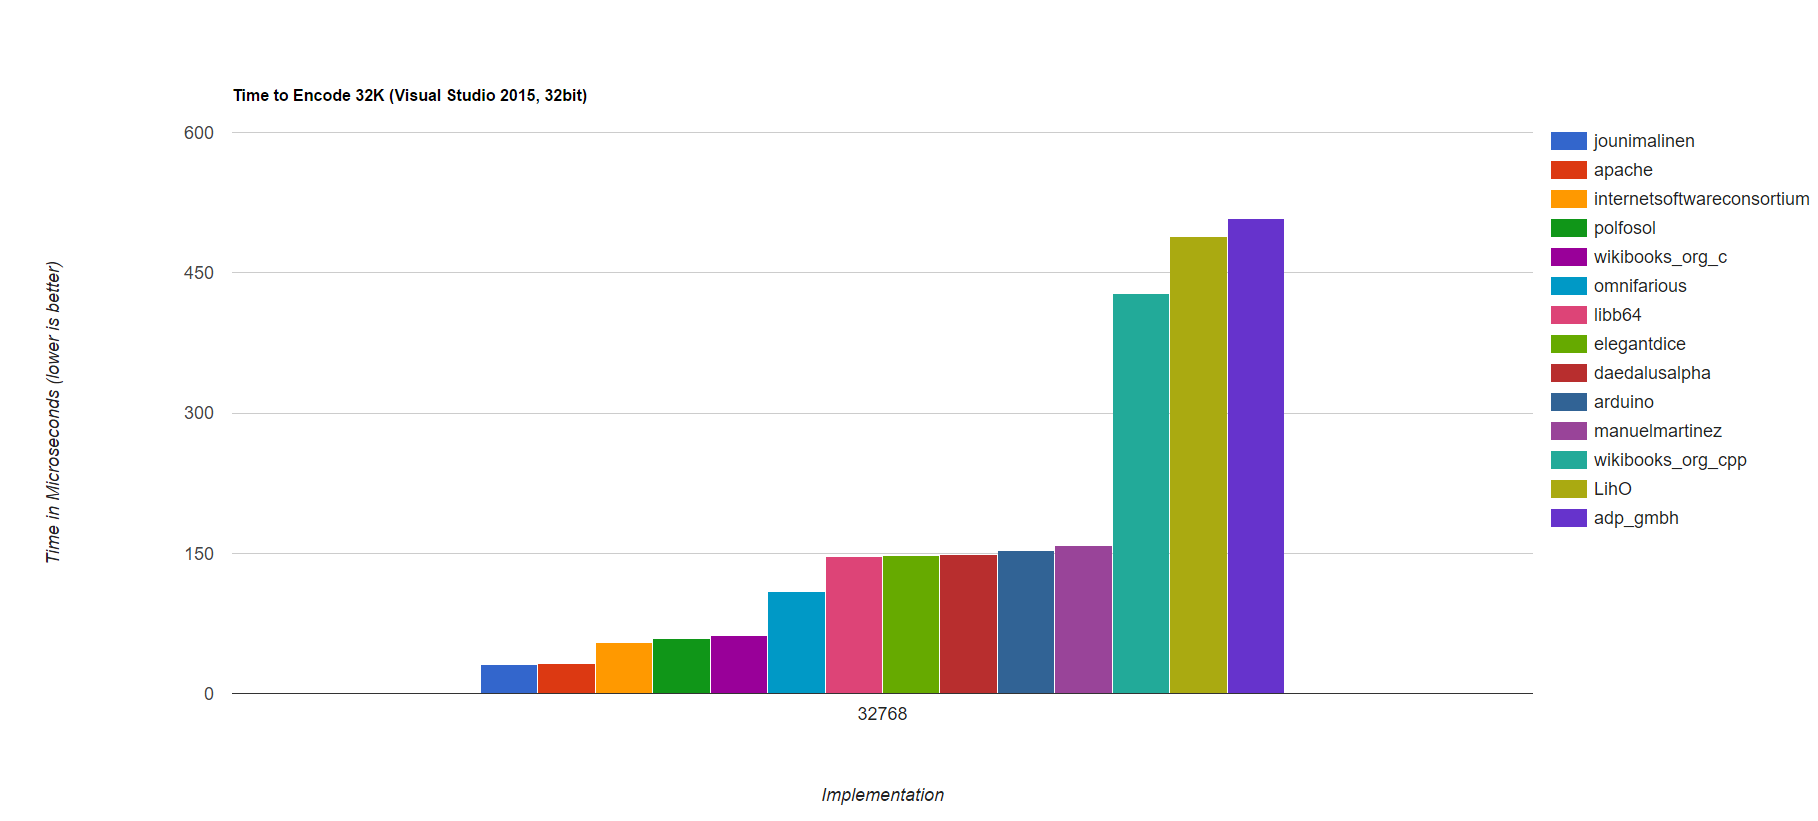
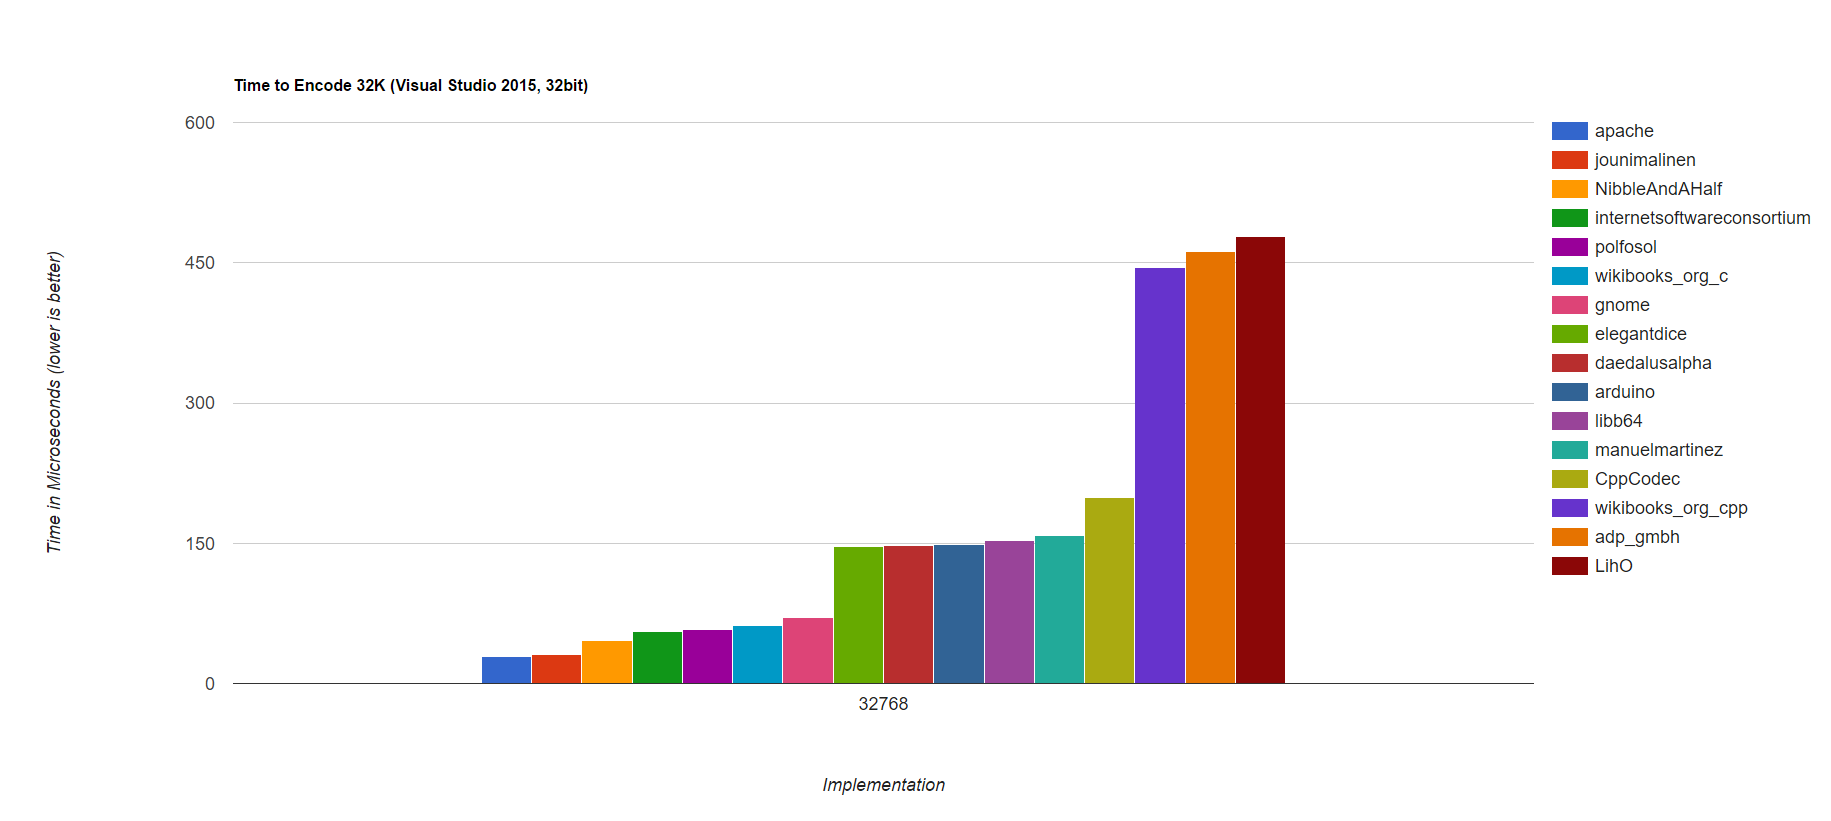
no message

diff --git a/src/main.cpp b/src/main.cpp
@@ -29,10 +29,11 @@ void RunBenchmark()
 {
 	bool printTable = true;
 	typedef high_resolution_clock Clock;
+	std::map<std::string, std::map<int, double>> results;
 
 	//int test_sizes[] = { 1, 2, 3, 4, 6, 8, 10, 12, 14, 16, 20, 24, 28, 32, 40, 48, 56, 64, 80, 96, 112, 128,  160, 192, 224, 256, 512, 768, 1024, 2048, 3072, 4096, 8192, 16384, 32768};
-	//int test_sizes[] = { 1, 2, 3, 4, 5, 6, 7, 8, 9, 10, 11, 12, 13, 14, 15, 16, 17, 18, 19, 20, 21, 22, 23, 24, 25, 26, 27, 28, 29, 30, 31, 32, 33, 34, 35, 36, 37, 38, 39, 40, 41, 42, 43, 44, 45, 46, 47, 48, 49, 50, 51, 52, 53, 54, 55, 56, 57, 58, 59, 60, 61, 62, 63, 64, 68, 72, 76, 80, 96, 112, 128,  160, 192, 224, 256 };
-	int test_sizes[] = { 32768 };
+	int test_sizes[] = { 1, 2, 3, 4, 5, 6, 7, 8, 9, 10, 11, 12, 13, 14, 15, 16, 17, 18, 19, 20, 21, 22, 23, 24, 25, 26, 27, 28, 29, 30, 31, 32, 33, 34, 35, 36, 37, 38, 39, 40, 41, 42, 43, 44, 45, 46, 47, 48, 49, 50, 51, 52, 53, 54, 55, 56, 57, 58, 59, 60, 61, 62, 63, 64, 68, 72, 76, 80, 96, 112, 128,  160, 192, 224, 256 };
+	//int test_sizes[] = { 32768 };
 	string buffers[sizeof(test_sizes) / sizeof(test_sizes[0])];
 	string  value_buffers[sizeof(test_sizes) / sizeof(test_sizes[0])];
 	for (int i = 0; i < sizeof(test_sizes) / sizeof(test_sizes[0]); ++i)
@@ -108,6 +109,7 @@ void RunBenchmark()
 			}
 			auto t2 = Clock::now();
 			double time_tiny = double(duration_cast<microseconds>(t2 - t1).count()) / double(i+1);
+			results[name][test_sizes[testN]] = time_tiny;
 			if (printTable)
 			{
 				cout << "| " << time_tiny << std::flush;
@@ -124,6 +126,67 @@ void RunBenchmark()
 			cout << endl;
 
 	}
+
+	std::map<double, std::vector<std::string>> sorted;
+	for (const auto &entry : results)
+		sorted[entry.second.rbegin()->second].push_back(entry.first);
+
+	if (printTable)
+	{
+		cout << "| Implementation ";
+
+		for (int size : test_sizes)
+			cout << "| " << size;
+
+		cout << "|" << endl;
+
+		cout << "|----";
+
+		for (int size : test_sizes)
+			cout << "|----";
+
+		cout << "|" << endl;
+	}
+
+	for (const auto &entry : sorted)
+	{
+		for (const std::string &name : entry.second)
+		{
+			if (printTable)
+			{
+				cout << "| " << name;
+			}
+			else
+			{
+				cout << name;
+			}
+
+
+			for (int testN = 0; testN < sizeof(test_sizes) / sizeof(test_sizes[0]); ++testN)
+			{
+				double time_tiny = results[name][test_sizes[testN]];
+				results[name][test_sizes[testN]] = time_tiny;
+				if (printTable)
+				{
+					cout << "| " << time_tiny << std::flush;
+				}
+				else
+				{
+					cout << ",\t" << time_tiny << std::flush;
+				}
+			}
+
+			if (printTable)
+				cout << "|" << endl;
+			else
+				cout << endl;
+
+		}
+
+	}
+
+	// print sorted summary
+
 }
 
 
